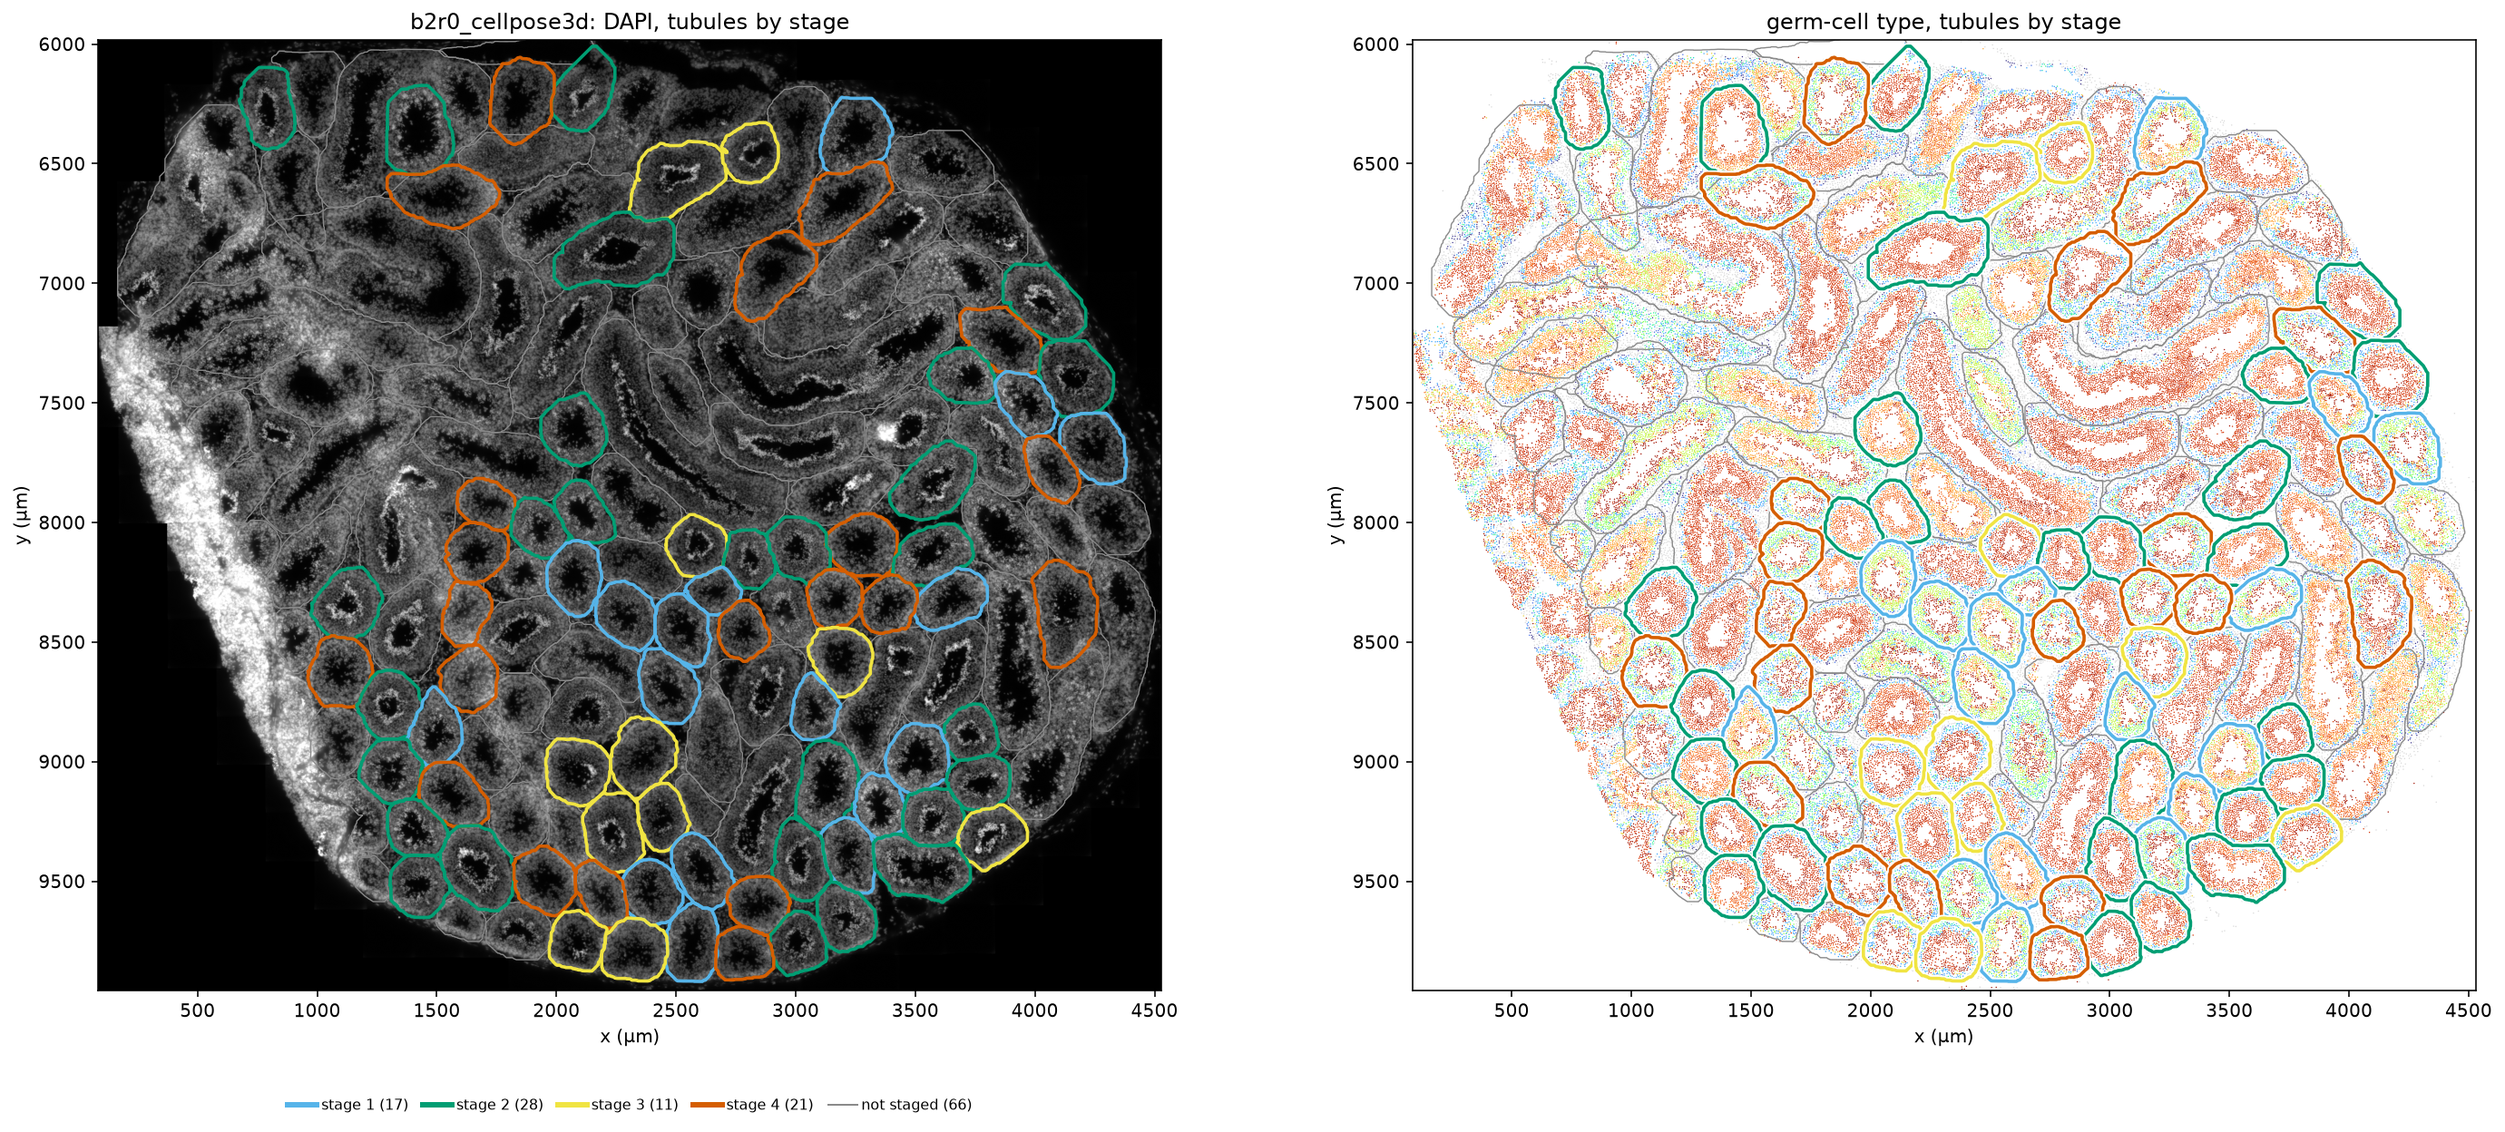
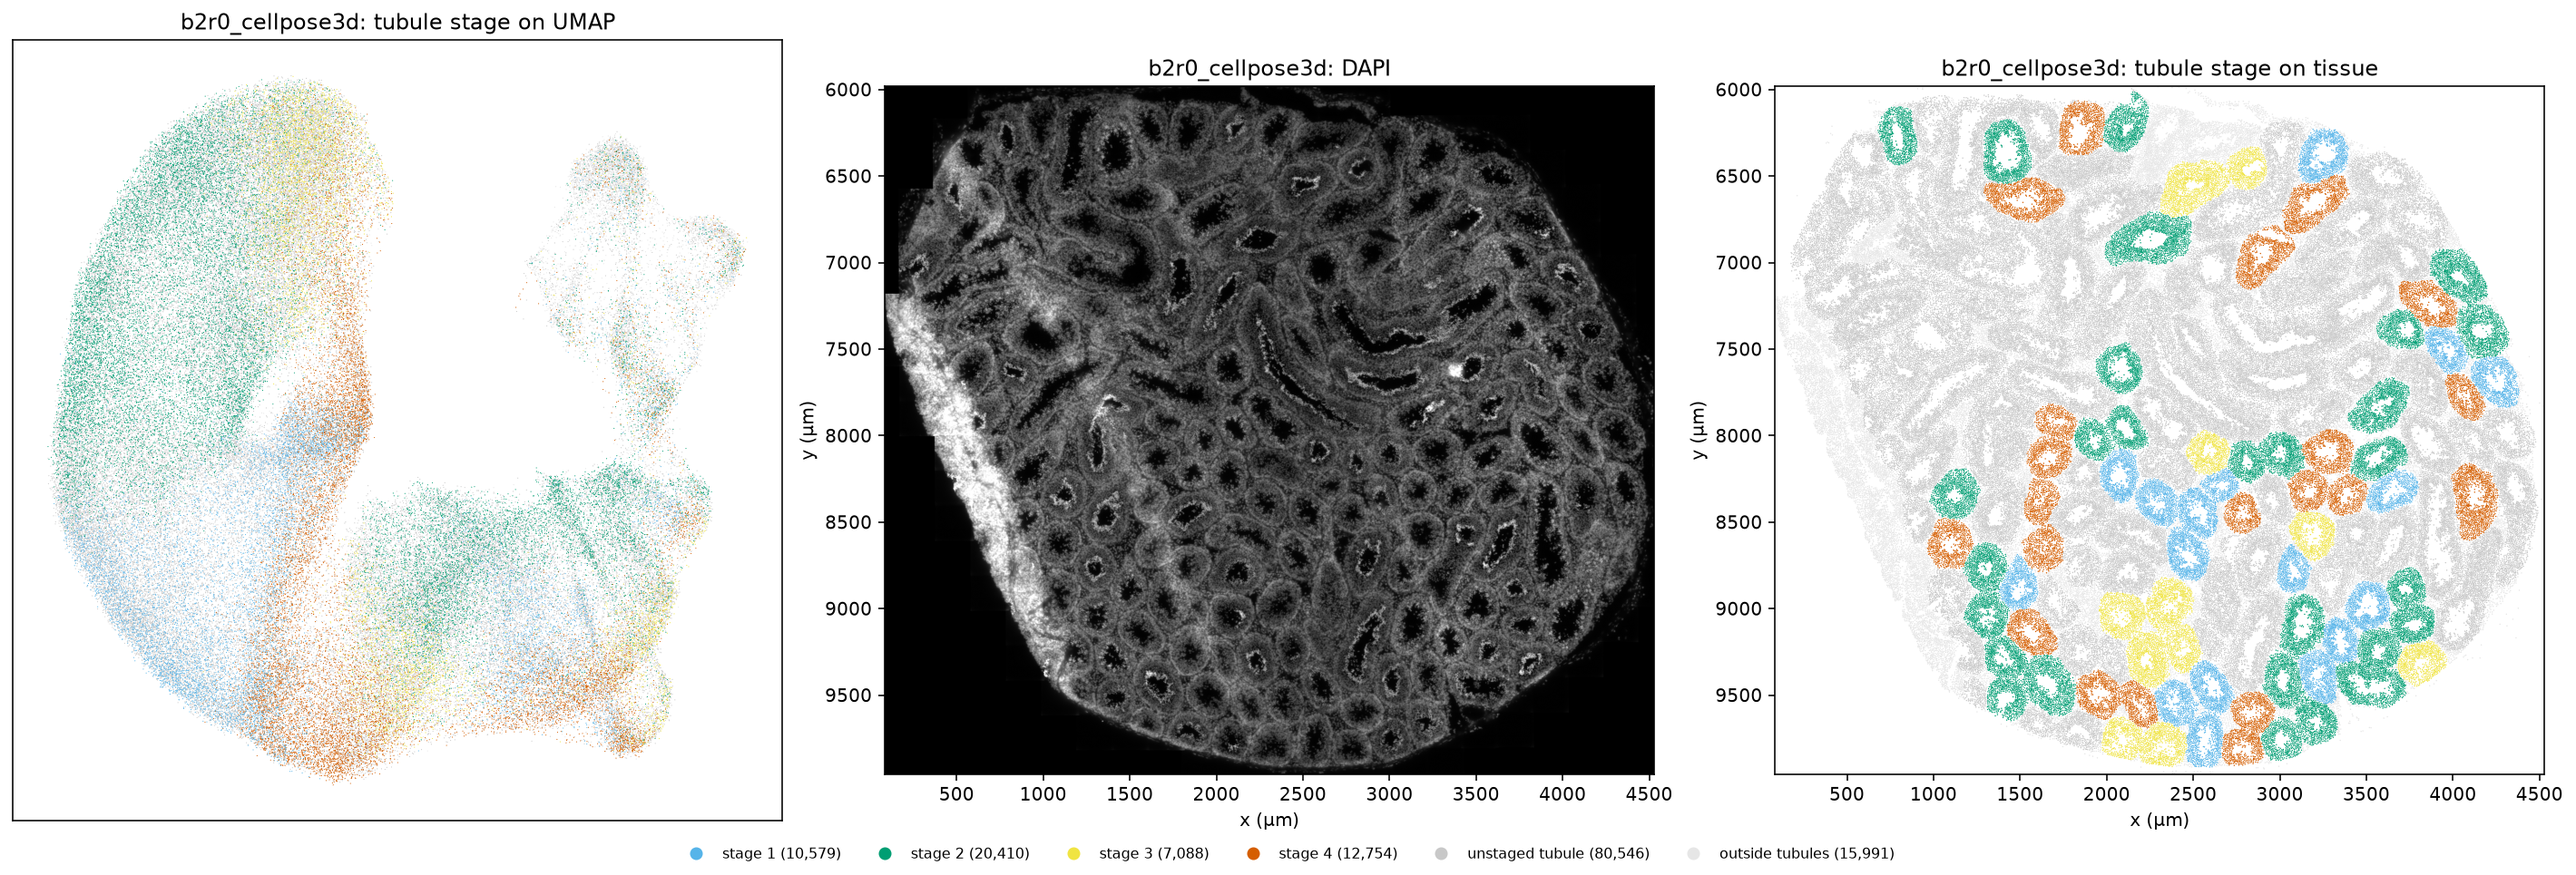
Re-render the b2r0 section notebook without the per-flag crops
Rendered from c719634 with the merfish-testis-example kernel. The four crops of one tubule per
flag are gone; the stage crops are unchanged.

diff --git a/reports/section_analysis_b2r0_demo_gfm/section_analysis.md b/reports/section_analysis_b2r0_demo_gfm/section_analysis.md
@@ -20,8 +20,7 @@ Brent Biddy
 - [Phase E — Tubules](#phase-e--tubules)
   - [E1. Load the outlines](#e1-load-the-outlines)
   - [E2. The tubules on the section](#e2-the-tubules-on-the-section)
-  - [E3. Tubules at full resolution](#e3-tubules-at-full-resolution)
-  - [E4. Which tubule each cell is in](#e4-which-tubule-each-cell-is-in)
+  - [E3. Which tubule each cell is in](#e3-which-tubule-each-cell-is-in)
 - [Phase G — Tubule stage](#phase-g--tubule-stage)
   - [G1. The stage of each tubule](#g1-the-stage-of-each-tubule)
   - [G2. The tubules by stage](#g2-the-tubules-by-stage)
@@ -218,7 +217,7 @@ def plot_tubule_overview(image, polygons, flag_colors, flag_counts, xy, major_po
 
 def plot_tubule_crop(channels, extent, outline, outline_color, cell_polygons, major_colors, gc_colors,
                      major_present, gc_present, title, width=24.0):
-    """E3: one tubule at full resolution: DAPI, Cellbound3, then the cells filled by type and by germ-cell type, over DAPI.
+    """H2: one tubule at full resolution: DAPI, Cellbound3, then the cells filled by type and by germ-cell type, over DAPI.
 
     The figure's height follows the crop's shape, so a thin strip does not leave empty space around it.
     """
@@ -765,92 +764,7 @@ plt.show()
 
 ![](section_analysis_files/figure-commonmark/cell-19-output-1.png)
 
-## E3. Tubules at full resolution
-
-One tubule per flag, so each kind of outline is seen against the tissue:
-for each flag, the tubule whose outline area is the median of that flag,
-and for the tubules without a table row, the first. A crop is read from
-the finest level of the image, a few tens of megabytes per channel, and
-the cells in it are filled by type. His outline is drawn in its flag
-colour on every panel.
-
-<details>
-<summary>Code</summary>
-
-``` python
-full = pyramid[levels[0]]["image"]
-cell_shapes = sdata.shapes[cells_name]
-cell_centres = cell_shapes.geometry.centroid
-area = tubule_meta["area"]
-
-
-def pick_tubule(flag):
-    ids = flags.index[flags == flag]
-    if flag == "no metadata":
-        return ids[0]
-    return area.loc[ids].sort_values().index[len(ids) // 2]
-
-
-def read_crop(tubule_id, pad=30):
-    """The tubule's bounding box, padded by `pad` µm, read from the finest image level."""
-    x0, y0, x1, y1 = tubules_um[tubule_id].bounds
-    corners = um_to_px @ np.array([[x0 - pad, x1 + pad], [y0 - pad, y1 + pad], [1, 1]])
-    px0, px1 = int(max(corners[0].min(), 0)), int(min(corners[0].max(), full.shape[2]))
-    py0, py1 = int(max(corners[1].min(), 0)), int(min(corners[1].max(), full.shape[1]))
-    (ex0, ex1), (ey0, ey1) = (px_to_um @ np.array([[px0, px1], [py0, py1], [1, 1]]))[:2]
-    channels = {c: full.sel(c=c).isel(y=slice(py0, py1), x=slice(px0, px1)).data.compute() for c in ["DAPI", "Cellbound3"]}
-    return channels, (ex0, ex1, ey1, ey0)
-
-
-def show_tubule(tubule_id, outline_color, label):
-    """Draw one tubule at full resolution, with its cells filled by type."""
-    channels, extent = read_crop(tubule_id)
-
-    # The cells whose centres are in view and that survived the filter in C1.
-    in_view = ((cell_centres.x > extent[0]) & (cell_centres.x < extent[1])
-               & (cell_centres.y > extent[3]) & (cell_centres.y < extent[2])).to_numpy()
-    in_table = cell_shapes.index[in_view].astype(str).isin(adata.obs_names)
-    ids = cell_shapes.index[in_view][in_table].astype(str)
-    parts = [(np.asarray(part.exterior.coords), cell_id)
-             for geometry, cell_id in zip(cell_shapes.geometry[in_view][in_table], ids) for part in geometry.geoms]
-    cell_polygons = [coords for coords, _ in parts]
-    major_here = [major_calls[cell_id] for _, cell_id in parts]
-    gc_here = [gc_calls[cell_id] for _, cell_id in parts]
-
-    plot_tubule_crop(
-        channels, extent, tubules_um[tubule_id], outline_color, cell_polygons,
-        [TYPE_COLORS[k] for k in major_here], [GC_COLORS[k] for k in gc_here], set(major_here), set(gc_here),
-        f"Tubule {tubule_id}: {label}   ({len(ids):,} cells from the table in view)",
-    )
-    plt.show()
-    print(f"tubule {tubule_id}, {label}: {channels['DAPI'].shape[1]} x {channels['DAPI'].shape[0]} px, "
-          f"{channels['DAPI'].nbytes / 1e6:.0f} MB per channel")
-
-
-for flag in TUBULE_FLAGS:
-    if flag_counts[flag]:
-        show_tubule(pick_tubule(flag), TUBULE_FLAGS[flag], flag)
-```
-
-</details>
-
-![](section_analysis_files/figure-commonmark/cell-20-output-1.png)
-
-    tubule 249, good circle: 3283 x 3110 px, 20 MB per channel
-
-![](section_analysis_files/figure-commonmark/cell-20-output-3.png)
-
-    tubule 122, good cells, not circular: 3870 x 4548 px, 35 MB per channel
-
-![](section_analysis_files/figure-commonmark/cell-20-output-5.png)
-
-    tubule 21, not good cells: 4755 x 3166 px, 30 MB per channel
-
-![](section_analysis_files/figure-commonmark/cell-20-output-7.png)
-
-    tubule 3, no metadata: 6525 x 1504 px, 20 MB per channel
-
-## E4. Which tubule each cell is in
+## E3. Which tubule each cell is in
 
 His map has one entry per cell of the section’s table, in the table’s
 order: a tubule id, or none for a cell outside every tubule. C1 dropped
@@ -941,7 +855,7 @@ plt.show()
 
 </details>
 
-![](section_analysis_files/figure-commonmark/cell-23-output-1.png)
+![](section_analysis_files/figure-commonmark/cell-22-output-1.png)
 
 ## G3. Stage on the UMAP and the tissue
 
@@ -971,7 +885,7 @@ print(stage_calls.value_counts().reindex(STAGE_CELL_COLORS).to_string())
 
 </details>
 
-![](section_analysis_files/figure-commonmark/cell-24-output-1.png)
+![](section_analysis_files/figure-commonmark/cell-23-output-1.png)
 
     tubule_id
     stage 1            10579
@@ -1067,7 +981,7 @@ plt.show()
     GC11            4.5     40.3     41.4      8.9   3.3e-11
     GC12           16.5      6.6     19.4     26.3   1.0e-11
 
-![](section_analysis_files/figure-commonmark/cell-25-output-2.png)
+![](section_analysis_files/figure-commonmark/cell-24-output-2.png)
 
 ## H2. One tubule per stage at full resolution
 
@@ -1075,8 +989,57 @@ The composition above is a mean, so here is a single tubule at each
 stage. It is the staged tubule whose germ-cell type shares are closest
 to the stage’s mean, by the sum of the absolute differences, so each is
 a typical tubule of its stage and not a clear one or an odd one. They
-illustrate the means and do not test them. Each panel set is the same as
-in E3, with the outline in the stage’s colour.
+illustrate the means and do not test them. A crop is read from the
+finest level of the image, a few tens of megabytes per channel. Its
+cells are filled by type, over DAPI and Cellbound3, and the outline is
+Alex Vargo’s, in the stage’s colour.
+
+<details>
+<summary>Code</summary>
+
+``` python
+full = pyramid[levels[0]]["image"]
+cell_shapes = sdata.shapes[cells_name]
+cell_centres = cell_shapes.geometry.centroid
+
+
+def read_crop(tubule_id, pad=30):
+    """The tubule's bounding box, padded by `pad` µm, read from the finest image level."""
+    x0, y0, x1, y1 = tubules_um[tubule_id].bounds
+    corners = um_to_px @ np.array([[x0 - pad, x1 + pad], [y0 - pad, y1 + pad], [1, 1]])
+    px0, px1 = int(max(corners[0].min(), 0)), int(min(corners[0].max(), full.shape[2]))
+    py0, py1 = int(max(corners[1].min(), 0)), int(min(corners[1].max(), full.shape[1]))
+    (ex0, ex1), (ey0, ey1) = (px_to_um @ np.array([[px0, px1], [py0, py1], [1, 1]]))[:2]
+    channels = {c: full.sel(c=c).isel(y=slice(py0, py1), x=slice(px0, px1)).data.compute() for c in ["DAPI", "Cellbound3"]}
+    return channels, (ex0, ex1, ey1, ey0)
+
+
+def show_tubule(tubule_id, outline_color, label):
+    """Draw one tubule at full resolution, with its cells filled by type."""
+    channels, extent = read_crop(tubule_id)
+
+    # The cells whose centres are in view and that survived the filter in C1.
+    in_view = ((cell_centres.x > extent[0]) & (cell_centres.x < extent[1])
+               & (cell_centres.y > extent[3]) & (cell_centres.y < extent[2])).to_numpy()
+    in_table = cell_shapes.index[in_view].astype(str).isin(adata.obs_names)
+    ids = cell_shapes.index[in_view][in_table].astype(str)
+    parts = [(np.asarray(part.exterior.coords), cell_id)
+             for geometry, cell_id in zip(cell_shapes.geometry[in_view][in_table], ids) for part in geometry.geoms]
+    cell_polygons = [coords for coords, _ in parts]
+    major_here = [major_calls[cell_id] for _, cell_id in parts]
+    gc_here = [gc_calls[cell_id] for _, cell_id in parts]
+
+    plot_tubule_crop(
+        channels, extent, tubules_um[tubule_id], outline_color, cell_polygons,
+        [TYPE_COLORS[k] for k in major_here], [GC_COLORS[k] for k in gc_here], set(major_here), set(gc_here),
+        f"Tubule {tubule_id}: {label}   ({len(ids):,} cells from the table in view)",
+    )
+    plt.show()
+    print(f"tubule {tubule_id}, {label}: {channels['DAPI'].shape[1]} x {channels['DAPI'].shape[0]} px, "
+          f"{channels['DAPI'].nbytes / 1e6:.0f} MB per channel")
+```
+
+</details>
 
 <details>
 <summary>Code</summary>
